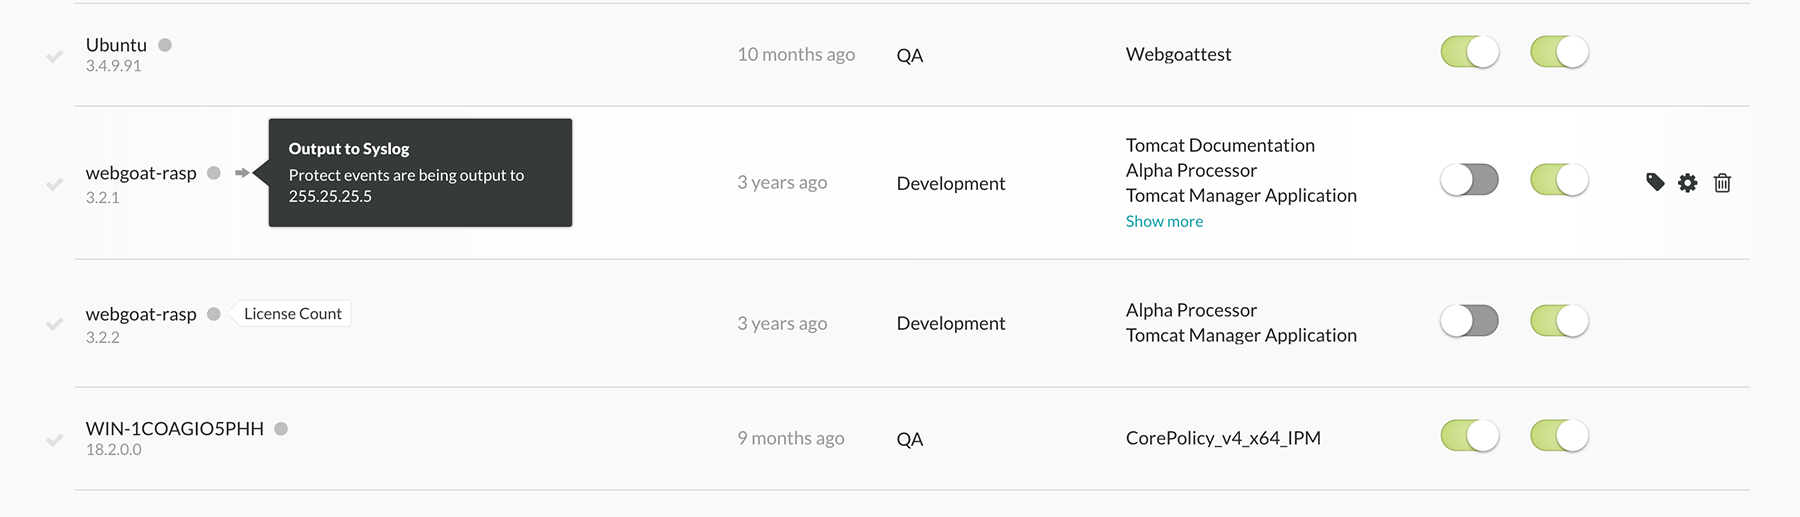
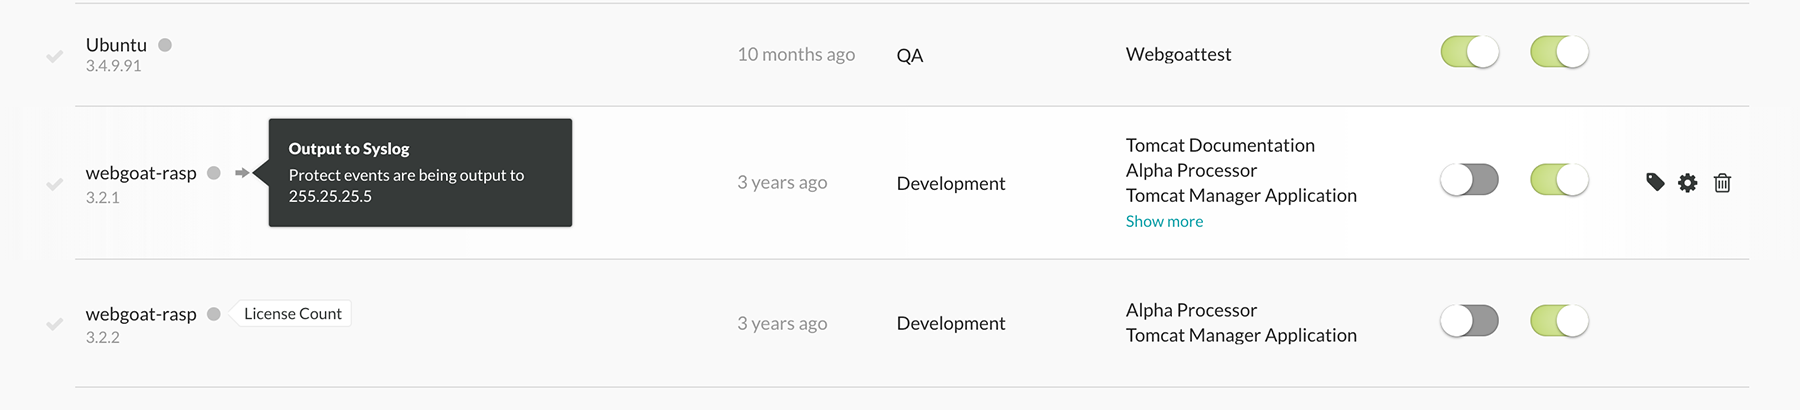
edits, syslog

diff --git a/content/user/servers/OutputtoSyslog.md b/content/user/servers/OutputtoSyslog.md
@@ -18,15 +18,15 @@ For more information on creating server configurations in Organization Settings,
 
 ## Enable Output to Syslog 
 
-From the **Servers** page, you can enable and configure Syslog output to an individual server or multiple servers at one time. When Syslog is enabled, the server has a gray arrow icon beside its name in the grid. Hover over the icon to see the output location of Protect events.
-
-<a href="assets/images/Output-to-syslog.png" rel="lightbox" title="Output to Syslog enabled"><img class="thumbnail" src="assets/images/Output-to-syslog.png"/></a>
+From the **Servers** page, you can enable and configure Syslog output to an individual server or multiple servers at one time. 
 
 ### Individual server 
 
-To enable Syslog on an individual server, hover over the grid row, and select the **Server Settings** icon. In the **Server Settings** dialog, check the box to **Enable output of Protect events to Syslog**. If Syslog defaults have been set for the server environment in **Organization Settings**, the values are prepopulated in the fields that appear. Once you save the settings, Syslog is enabled on the server.
+To enable Syslog on an individual server, hover over the grid row, and select the **Server Settings** icon. 
 
 <a href="assets/images/Server-settings-grid.png" rel="lightbox" title="Enable Syslog for a server in Server Settings"><img class="thumbnail" src="assets/images/Server-settings-grid.png"/></a>
+
+In the **Server Settings** dialog, check the box to **Enable output of Protect events to Syslog**. If Syslog defaults have been set for the server environment in **Organization Settings**, the values are prepopulated in the fields that appear. Once you save the settings, Syslog is enabled on the server.
 
 ### Multiple servers
 
@@ -34,11 +34,18 @@ To enable Syslog on multiple servers, use the check marks to select the servers,
 
 > **Note:** If one or more of the selected servers is not eligible to have Syslog enabled, Syslog is only enabled on the servers that are eligible. 
 
-In the **Bulk Server Settings** dialog, click the **Edit** link to enable the option to send Protect events to Syslog. Select the checkbox to **Send output of Protect events to Syslog**, and complete the fields that appear. 
+In the **Bulk Server Settings** dialog, click the **Edit** link to enable the option to send Protect events to Syslog. Select the checkbox to **Send output of Protect events to Syslog**, and complete the fields that appear. Once you complete all required fields and save the settings, Syslog is enabled on the selected servers. 
+
+<a href="assets/images/Bulk-server-settings.png" rel="lightbox" title="Enable Syslog for multiple servers"><img class="thumbnail" src="assets/images/Bulk-server-settings.png"/></a>
 
 > **Note:** If all selected servers are in the same environment, and Syslog defaults are set for that environment in **Organization Settings**, the values are prepopulated in the fields that appear. If eligible servers selected are in different environments, you can choose to use the default settings for the applicable servers or manually configure the settings for all servers. 
 
-Once you complete all required fields and save the settings, Syslog is enabled on the selected servers. 
+## Enabled Servers
 
-<a href="assets/images/Bulk-server-settings.png" rel="lightbox" title="Enable Syslog for multiple servers"><img class="thumbnail" src="assets/images/Bulk-server-settings.png"/></a>
+When Syslog is enabled, the server has a gray arrow icon beside its name in the grid. Hover over the icon to see the output location of Protect events.
+
+<a href="assets/images/Output-to-syslog.png" rel="lightbox" title="Output to Syslog enabled"><img class="thumbnail" src="assets/images/Output-to-syslog.png"/></a>
+
+To edit server settings, repeat the steps above to update the values in the appropriate configuration form, and save your changes. 
+
 
